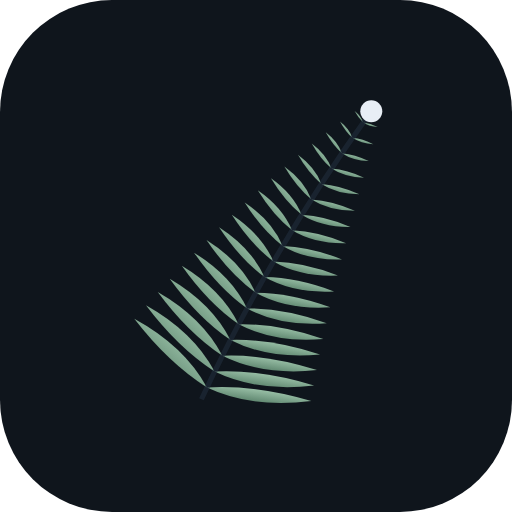
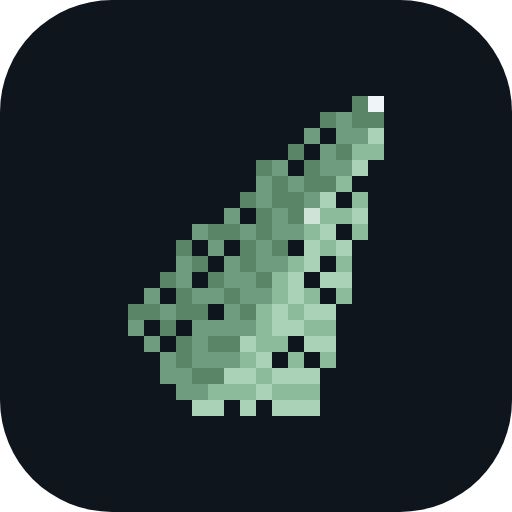
feat: 站点图标改成像素蕨叶（并入原版像素网格）
- 蕨叶结构保持（弯叶轴 + 18 对小叶），画法换成 32×32 方块像素，三档蕨绿 + 叶尖一点亮
- 几何仍由脚本按贝塞尔曲线算出，再逐格栅格化：每片小叶沿中心线铺格子、基部两格宽
- favicon.svg 从 3.4KB 涨到 10.7KB（158 个 rect），PNG 反而更小（色块少、压缩好）
- 重渲染 favicon.png(192) / img/icon-192.png / img/icon-512.png / apple-touch-icon.png(180，不透明）
- SW 缓存版本 v15 → v16；更新日志同步

Changed region(s): [[0.25, 0.1875, 0.75, 0.8125]]

diff --git a/public/service-worker.js b/public/service-worker.js
@@ -1,4 +1,4 @@
-const CACHE_NAME = 'merisk-blog-v15';
+const CACHE_NAME = 'merisk-blog-v16';
 const APP_SHELL = [
   '/',
   '/index.html',
